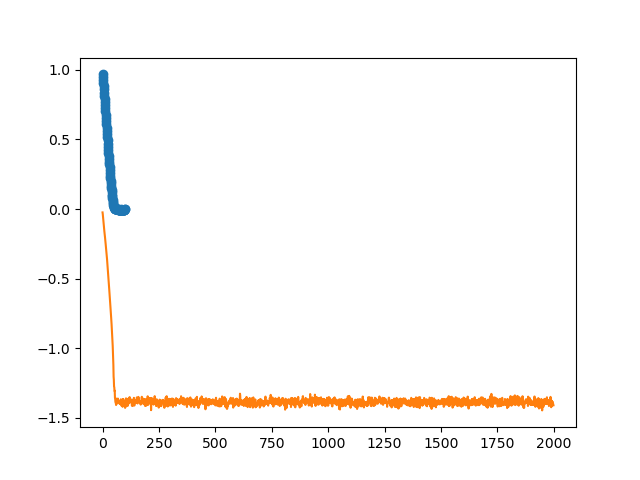
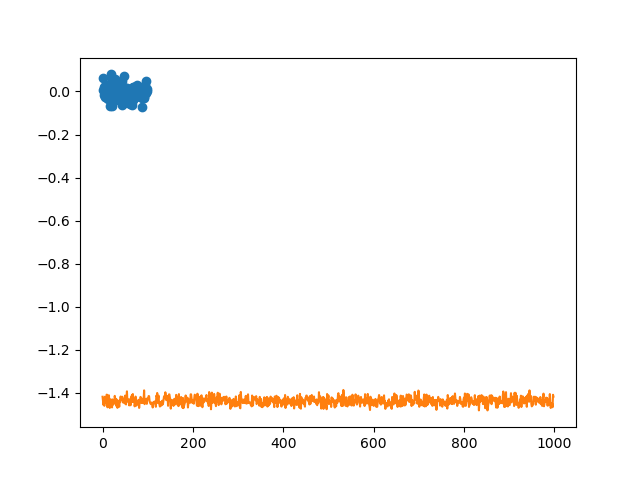
wolff setup

diff --git a/plotting/korrelation.py b/plotting/korrelation.py
@@ -34,10 +34,10 @@ import matplotlib.colors as mcolors
 #data = [0.60445, 0.59915, 0.61015, 0.59555, 0.59325, 0.59705, 0.6123, 0.6094, 0.6237, 0.6306, 0.61995, 0.62035, 0.6347, 0.63575, 0.6133, 0.6161, 0.6238, 0.6247, 0.6308, 0.6339, 0.619, 0.6141, 0.6243, 0.62585, 0.624, 0.6276, 0.61005, 0.6076, 0.60915, 0.60095, 0.59865, 0.60225, 0.60385, 0.60495, 0.60985, 0.6059, 0.60695, 0.6161, 0.6283, 0.6238, 0.62505, 0.64435, 0.6565, 0.64025, 0.6416, 0.64665, 0.63675, 0.64115, 0.6349, 0.6387, 0.63825, 0.63025, 0.6414, 0.632, 0.6393, 0.6311, 0.63885, 0.64105, 0.641, 0.6473, 0.64455, 0.65035, 0.64705, 0.6425, 0.65025, 0.64595, 0.6292, 0.6224, 0.6313, 0.64475, 0.63885, 0.64005, 0.63045, 0.6266, 0.6267, 0.63385, 0.63425, 0.6234, 0.6228, 0.6172, 0.62325, 0.61265, 0.61305, 0.6131, 0.6141, 0.61105, 0.6126, 0.6154, 0.625, 0.63375, 0.64235, 0.63015, 0.62385, 0.63795, 0.64615, 0.63565, 0.63255, 0.63775, 0.6332, 0.6246, 0.61805, 0.63, 0.6272, 0.63185, 0.63995, 0.63455, 0.61875, 0.62735, 0.6307, 0.62485, 0.61885, 0.6183, 0.61695, 0.61575, 0.6105, 0.60845, 0.61085, 0.6228, 0.60985, 0.61265, 0.5963, 0.5903, 0.59045, 0.59415, 0.5834, 0.5824, 0.58825, 0.58915, 0.60805, 0.60875, 0.62275, 0.60585, 0.62605, 0.62795, 0.6103, 0.63545, 0.645, 0.63775, 0.64595, 0.64415, 0.64375, 0.6511, 0.64955, 0.6417, 0.6195, 0.6315, 0.62275, 0.63415, 0.62885, 0.6362, 0.6467, 0.6486, 0.65835, 0.65005, 0.65785, 0.66065, 0.65755, 0.66635, 0.65235, 0.6561, 0.64115, 0.6356, 0.6222, 0.63065, 0.6261, 0.62615, 0.6287, 0.6265, 0.63025, 0.6175, 0.6128, 0.60715, 0.6159, 0.62185, 0.62125, 0.61155, 0.60975, 0.60465, 0.59315, 0.59005, 0.58655, 0.5974, 0.6038, 0.6109, 0.60655, 0.6035, 0.6021, 0.62045, 0.619, 0.62625, 0.61275, 0.6129, 0.6075, 0.60815, 0.59645, 0.5875, 0.5868, 0.5753, 0.5884, 0.5882, 0.5645, 0.57625, 0.5702, 0.57135, 0.5703, 0.5803, 0.5856, 0.5793, 0.59035, 0.5885, 0.5894, 0.59285, 0.5829, 0.59985, 0.6031, 0.60305, 0.625, 0.62065, 0.6096, 0.60805, 0.61895, 0.62445, 0.6271, 0.6227, 0.61075, 0.6089, 0.61255, 0.6043, 0.61155, 0.61225, 0.6175, 0.62555, 0.6263, 0.6246, 0.6109, 0.6061, 0.59655, 0.59885, 0.5983, 0.59045, 0.5985, 0.60095, 0.5956, 0.5805, 0.58065, 0.58, 0.58525, 0.58885, 0.5879, 0.57595, 0.58275, 0.59425, 0.5893, 0.58515, 0.58565, 0.58905, 0.5899, 0.5941, 0.5943, 0.5731, 0.57135, 0.5664, 0.56885, 0.5718, 0.5726, 0.59395, 0.5844, 0.5944, 0.59985, 0.61305, 0.5968, 0.5969, 0.60005, 0.58745, 0.5816, 0.5846, 0.5888, 0.58635, 0.6016, 0.5946, 0.58205, 0.58095, 0.5818, 0.5726, 0.57195, 0.5605, 0.55575, 0.56215, 0.574, 0.5646, 0.55805, 0.5703, 0.5624, 0.55405, 0.56535, 0.5566, 0.5558, 0.56025, 0.5644, 0.5624, 0.5543, 0.5432, 0.5378, 0.51855, 0.5226, 0.53175, 0.5054, 0.5152, 0.5075, 0.51415, 0.5292, 0.52475, 0.5391, 0.53965, 0.5358, 0.54275, 0.55705, 0.5451, 0.54105, 0.54555, 0.53955, 0.55245, 0.5559, 0.55495, 0.5368, 0.5384, 0.55395, 0.55525, 0.56575, 0.5535, 0.56175, 0.5607, 0.57515, 0.56055, 0.55705, 0.5526, 0.5518, 0.5501, 0.5454, 0.5384, 0.5445, 0.549, 0.5418, 0.53825, 0.5582, 0.5455, 0.55, 0.5495, 0.54955, 0.53475, 0.51695, 0.5218, 0.5205, 0.5328, 0.5236, 0.51665, 0.49955, 0.4914, 0.4982, 0.51055, 0.51895, 0.5116, 0.51115, 0.515, 0.52945, 0.52435, 0.534, 0.5405, 0.5392, 0.5415, 0.53035, 0.5314, 0.5246, 0.53235, 0.538, 0.52995, 0.5388, 0.5423, 0.53565, 0.52865, 0.5324, 0.5357, 0.5249, 0.5232, 0.5253, 0.5256, 0.53575, 0.5398, 0.5321, 0.5271, 0.5265, 0.52695, 0.52845, 0.52875, 0.5155, 0.50135, 0.4907, 0.5145, 0.5126, 0.5077, 0.52005, 0.52865, 0.5446, 0.53395, 0.5322, 0.52405, 0.5499, 0.55275, 0.5551, 0.55335, 0.54805, 0.54405, 0.54195, 0.5416, 0.54475, 0.54505, 0.5508, 0.5414, 0.53595, 0.54015, 0.5405, 0.5391, 0.5559, 0.5508, 0.5556, 0.55565, 0.5641, 0.5759, 0.574, 0.576, 0.58695, 0.59125, 0.5955, 0.5987, 0.6006, 0.6043, 0.597, 0.59395, 0.5874, 0.58865, 0.5889, 0.58205, 0.58675, 0.57465, 0.55825, 0.56015, 0.5676, 0.5581, 0.56055, 0.5657, 0.5719, 0.565, 0.55955, 0.5769, 0.5814, 0.5826, 0.57735, 0.57145, 0.5688, 0.57115, 0.55095, 0.5536, 0.55515, 0.55475, 0.55735, 0.57205, 0.5638, 0.5652, 0.5569, 0.5587, 0.55015, 0.5475, 0.5207, 0.52155, 0.5213, 0.52735, 0.52145, 0.5215, 0.52455, 0.53165, 0.51945, 0.5276, 0.5112, 0.5121, 0.52405, 0.52935, 0.52945, 0.5112, 0.50665, 0.50355, 0.49995, 0.505, 0.51375, 0.51095, 0.5065, 0.49845, 0.4942, 0.4926, 0.481, 0.49275, 0.47805, 0.4862, 0.47865, 0.47895, 0.46845, 0.4678, 0.4607, 0.47635, 0.4664, 0.4704, 0.46395, 0.4627, 0.4631, 0.4663, 0.4592, 0.45, 0.4664, 0.46545, 0.45755, 0.44295, 0.45715, 0.46405, 0.4446, 0.4425, 0.45045, 0.44315, 0.44655, 0.4463, 0.45855, 0.4597, 0.46655, 0.4582, 0.4714, 0.46575, 0.46645, 0.4716, 0.4608, 0.469, 0.4697, 0.46835, 0.4554, 0.44985, 0.4516, 0.4626, 0.4587, 0.4639, 0.462, 0.46405, 0.47225, 0.46895, 0.4801, 0.49505, 0.4837, 0.47835, 0.4849, 0.4789, 0.47875, 0.47085, 0.46835, 0.4568, 0.4589, 0.4544, 0.44705, 0.45685, 0.4565, 0.453, 0.4551, 0.4479, 0.4393, 0.4284, 0.4413, 0.4331, 0.42485, 0.40635, 0.40035, 0.3877, 0.37885, 0.3655, 0.35965, 0.34235, 0.34075, 0.3538, 0.35875, 0.37115, 0.39295, 0.3677, 0.36115, 0.36555, 0.3676, 0.36635, 0.36795, 0.3817, 0.3835, 0.3708, 0.37165, 0.36495, 0.37275, 0.37975, 0.3797, 0.37415, 0.35685, 0.3574, 0.37515, 0.377, 0.3724, 0.37405, 0.3816, 0.36935, 0.3689, 0.36375, 0.372, 0.37185, 0.3713, 0.3764, 0.3732, 0.3735, 0.3719, 0.38015, 0.37965, 0.38725, 0.37645, 0.381, 0.37395, 0.367, 0.3766, 0.3593, 0.3517, 0.35075, 0.3523, 0.3598, 0.35405, 0.35775, 0.35045, 0.35335, 0.3622, 0.3651, 0.36335, 0.34075, 0.33775, 0.3244, 0.31945, 0.3174, 0.3192, 0.32195, 0.31, 0.30115, 0.29045, 0.295, 0.3048, 0.2955, 0.29925, 0.30205, 0.30505, 0.3026, 0.3058, 0.30195, 0.3065, 0.2991, 0.31535, 0.32715, 0.3274, 0.3142, 0.3197, 0.3223, 0.3018, 0.30405, 0.31185, 0.30895, 0.31685, 0.31725, 0.32455, 0.3143, 0.3172, 0.3218, 0.31185, 0.3081, 0.30145, 0.3035, 0.306, 0.29525, 0.2923, 0.30525, 0.3026, 0.3045, 0.29255, 0.2921, 0.2934, 0.28615, 0.2819, 0.27405, 0.27655, 0.26625, 0.26505, 0.26295, 0.2753, 0.2837, 0.2745, 0.27345, 0.26755, 0.27415, 0.27615, 0.27455, 0.29575, 0.30505, 0.3234, 0.3441, 0.34, 0.31985, 0.3228, 0.31525, 0.3195, 0.32855, 0.313, 0.3206, 0.32255, 0.3386, 0.334, 0.3354, 0.32575, 0.3289, 0.31565, 0.32595, 0.32855, 0.33195, 0.3304, 0.32085, 0.32665, 0.32035, 0.32495, 0.3225, 0.31535, 0.30095, 0.30495, 0.3077, 0.3245, 0.31705, 0.32505, 0.31665, 0.2999, 0.305, 0.3216, 0.31725, 0.32945, 0.3402, 0.34125, 0.34575, 0.35065, 0.34515, 0.34815, 0.33605, 0.3394, 0.3559, 0.3587, 0.36345, 0.3557, 0.3523, 0.34765, 0.33985, 0.3487, 0.35305, 0.35645, 0.34905, 0.3395, 0.3521, 0.361, 0.37325, 0.36105, 0.3638, 0.3613, 0.36765, 0.3684, 0.3705, 0.372, 0.3705, 0.37735, 0.3745, 0.3889, 0.3875, 0.3955, 0.39795, 0.3915, 0.40515, 0.3937, 0.39165, 0.4073, 0.40475, 0.4038, 0.41495, 0.4021, 0.41905, 0.4278, 0.4139, 0.41495, 0.4081, 0.3966, 0.4213, 0.4204, 0.41465, 0.4089, 0.42135, 0.40645, 0.4019, 0.41255, 0.4187, 0.4346, 0.42975, 0.43325, 0.41815, 0.4181, 0.4134, 0.4103, 0.42865, 0.4396, 0.4428, 0.43375, 0.43675, 0.4281, 0.4311, 0.43965, 0.4396, 0.44315, 0.44815, 0.4502, 0.4476, 0.4431, 0.44635, 0.43155, 0.4333, 0.44355, 0.43505, 0.424, 0.4336, 0.4367, 0.43335, 0.43915, 0.4365, 0.45065, 0.4509, 0.4625, 0.4758, 0.46845, 0.4837, 0.48335, 0.48855, 0.47845, 0.47065, 0.47045, 0.4729, 0.46065, 0.46675, 0.4645, 0.45255, 0.4676, 0.46765, 0.4603, 0.45675, 0.45695, 0.4666, 0.4706, 0.47895, 0.48515, 0.4874, 0.49135, 0.4905, 0.4792, 0.45765, 0.448, 0.4525, 0.4582, 0.4639, 0.4687, 0.45875, 0.45375, 0.4556, 0.44735, 0.46165, 0.46785, 0.46985, 0.4721, 0.4842, 0.49975, 0.49155, 0.50145, 0.5018, 0.50505, 0.5048, 0.5115, 0.5113, 0.51305, 0.52145, 0.5152, 0.5156, 0.51395, 0.5089, 0.50375, 0.50115, 0.4896, 0.50135, 0.4884, 0.4865, 0.49005, 0.4883, 0.4751, 0.45905, 0.45015, 0.4529, 0.45845, 0.46055, 0.46255, 0.4657, 0.4438, 0.4562, 0.45475, 0.4685, 0.462, 0.46345, 0.46745, 0.47115, 0.4702, 0.46505, 0.4685, 0.48385, 0.49075, 0.4799, 0.46725, 0.4739, 0.47245, 0.4658, 0.44705, 0.4594, 0.4421, 0.4428, 0.4499, 0.4496, 0.44625, 0.45, 0.44425, 0.43385, 0.43995, 0.4481, 0.45335, 0.4584, 0.45575, 0.4571, 0.44835, 0.44775, 0.4535, 0.45125, 0.44535, 0.44165, 0.43215, 0.42375, 0.4223, 0.4226, 0.4117, 0.4, 0.38735, 0.38125, 0.38895, 0.38545, 0.3791, 0.38775, 0.38545, 0.39565, 0.40155, 0.4081, 0.4166, 0.4265, 0.4288, 0.41845, 0.41695, 0.4125, 0.42035, 0.4039, 0.41315, 0.4005, 0.41385, 0.41425, 0.4169, 0.4095, 0.3927, 0.3925, 0.3773, 0.37655, 0.3752, 0.3804, 0.3697, 0.37285, 0.3644, 0.36465, 0.3683, 0.36685, 0.3545, 0.3749, 0.38125, 0.39505, 0.39435, 0.4017, 0.41905, ]
 
 
-data = [-0.0243, -0.0362, -0.0548, -0.0748, -0.0947, -0.1132, -0.1288, -0.1413, -0.1591, -0.1725, -0.184, -0.2045, -0.2243, -0.237, -0.2551, -0.2722, -0.2901, -0.3052, -0.3282, -0.3488, -0.3621, -0.3855, -0.4078, -0.4305, -0.4489, -0.479, -0.4981, -0.5235, -0.5469, -0.5626, -0.5856, -0.6079, -0.6345, -0.658, -0.6776, -0.7039, -0.7317, -0.756, -0.7767, -0.7985, -0.8271, -0.8555, -0.8931, -0.9171, -0.9437, -0.9828, -1.026, -1.0596, -1.121, -1.2044, -1.2264, -1.2758, -1.2805, -1.3069, -1.3052, -1.3562, -1.3644, -1.3864, -1.3913, -1.3959, -1.4081, -1.3622, -1.3772, -1.3986, -1.396, -1.3946, -1.3724, -1.3873, -1.3619, -1.3872, -1.3811, -1.3816, -1.3782, -1.3888, -1.388, -1.3932, -1.401, -1.3957, -1.3759, -1.3969, -1.3909, -1.3669, -1.3718, -1.3732, -1.4132, -1.3888, -1.3769, -1.3714, -1.3952, -1.4212, -1.3653, -1.3997, -1.3651, -1.4023, -1.4012, -1.4091, -1.3845, -1.4164, -1.3877, -1.4138, -1.4288, -1.3837, -1.4146, -1.4193, -1.3601, -1.3852, -1.3958, -1.3681, -1.4123, -1.385, -1.4068, -1.4002, -1.4132, -1.3842, -1.3626, -1.3936, -1.3964, -1.397, -1.3721, -1.3578, -1.3513, -1.3732, -1.3895, -1.3797, -1.3787, -1.3665, -1.3776, -1.3835, -1.3783, -1.3807, -1.4135, -1.4099, -1.3976, -1.3797, -1.4148, -1.3703, -1.3918, -1.3768, -1.3804, -1.3567, -1.3993, -1.4119, -1.3947, -1.3939, -1.3721, -1.3888, -1.3793, -1.3916, -1.3894, -1.3751, -1.3763, -1.3703, -1.3535, -1.3685, -1.3926, -1.3974, -1.3714, -1.3601, -1.375, -1.35, -1.382, -1.3695, -1.3872, -1.3779, -1.3923, -1.383, -1.3926, -1.3809, -1.4, -1.4056, -1.3938, -1.3916, -1.3906, -1.3735, -1.3491, -1.3922, -1.368, -1.3869, -1.3771, -1.3612, -1.386, -1.4009, -1.3977, -1.3656, -1.3966, -1.3672, -1.3742, -1.3966, -1.4131, -1.3851, -1.412, -1.3664, -1.3829, -1.4131, -1.3935, -1.3698, -1.38, -1.3962, -1.4087, -1.3864, -1.3455, -1.375, -1.4063, -1.4005, -1.3978, -1.3578, -1.3904, -1.3742, -1.3946, -1.3881, -1.3904, -1.3579, -1.3971, -1.3983, -1.3641, -1.4452, -1.384, -1.3846, -1.3576, -1.3888, -1.3881, -1.3879, -1.3936, -1.3709, -1.369, -1.3927, -1.4053, -1.3852, -1.4003, -1.3793, -1.3854, -1.3445, -1.3729, -1.3604, -1.3688, -1.3765, -1.3758, -1.4132, -1.3733, -1.4145, -1.3769, -1.3682, -1.4085, -1.3885, -1.3815, -1.3896, -1.3996, -1.3916, -1.3889, -1.4267, -1.3908, -1.4147, -1.3724, -1.3695, -1.3799, -1.3728, -1.3927, -1.3885, -1.4134, -1.4086, -1.4162, -1.3779, -1.3858, -1.3853, -1.3912, -1.3733, -1.3714, -1.3938, -1.3719, -1.3962, -1.4007, -1.401, -1.417, -1.4061, -1.4282, -1.3847, -1.3793, -1.4044, -1.4091, -1.3786, -1.354, -1.4145, -1.3887, -1.3797, -1.3448, -1.3773, -1.3571, -1.3893, -1.3875, -1.4187, -1.4122, -1.3672, -1.3896, -1.4062, -1.4129, -1.3637, -1.365, -1.3807, -1.3654, -1.4036, -1.3657, -1.365, -1.4111, -1.3908, -1.3978, -1.3973, -1.3968, -1.3832, -1.3611, -1.3781, -1.4021, -1.3817, -1.4216, -1.3872, -1.3641, -1.3833, -1.4082, -1.3836, -1.3815, -1.3897, -1.3921, -1.3786, -1.3805, -1.3947, -1.4127, -1.3888, -1.3586, -1.3787, -1.3724, -1.3654, -1.3944, -1.3893, -1.3748, -1.3909, -1.368, -1.3885, -1.3789, -1.3741, -1.393, -1.3736, -1.3907, -1.4009, -1.3902, -1.3877, -1.3627, -1.3878, -1.3768, -1.373, -1.3451, -1.3747, -1.356, -1.3897, -1.3819, -1.3756, -1.3737, -1.4006, -1.4004, -1.373, -1.3857, -1.3565, -1.4045, -1.4007, -1.3933, -1.3645, -1.3987, -1.4051, -1.3721, -1.3817, -1.3843, -1.4, -1.3797, -1.401, -1.364, -1.3642, -1.4223, -1.3604, -1.3832, -1.3984, -1.3747, -1.3615, -1.3797, -1.3882, -1.3657, -1.38, -1.3751, -1.4053, -1.3981, -1.3671, -1.3741, -1.3537, -1.3858, -1.4063, -1.4198, -1.373, -1.3943, -1.3823, -1.3725, -1.3688, -1.41, -1.3998, -1.3864, -1.3844, -1.3739, -1.4036, -1.3905, -1.3923, -1.4236, -1.3841, -1.3731, -1.3906, -1.3987, -1.403, -1.361, -1.3655, -1.3771, -1.3903, -1.4093, -1.3921, -1.3494, -1.3951, -1.3799, -1.3952, -1.3941, -1.3845, -1.4076, -1.4293, -1.3928, -1.4049, -1.3798, -1.3873, -1.3968, -1.3928, -1.4049, -1.3835, -1.357, -1.3836, -1.3648, -1.3783, -1.368, -1.3463, -1.35, -1.3729, -1.3907, -1.362, -1.3984, -1.3823, -1.3971, -1.3819, -1.3937, -1.3821, -1.367, -1.3811, -1.374, -1.404, -1.3988, -1.3833, -1.4388, -1.3908, -1.3598, -1.4038, -1.4148, -1.3635, -1.3853, -1.3846, -1.3829, -1.3867, -1.3854, -1.3843, -1.3906, -1.3824, -1.411, -1.3662, -1.391, -1.3867, -1.3647, -1.3819, -1.3987, -1.3841, -1.3739, -1.3716, -1.3835, -1.4028, -1.3999, -1.3742, -1.3933, -1.3827, -1.3787, -1.3957, -1.3682, -1.3905, -1.37, -1.3751, -1.4014, -1.3995, -1.3763, -1.3956, -1.3906, -1.3919, -1.3776, -1.3941, -1.4109, -1.3764, -1.361, -1.356, -1.3958, -1.3978, -1.3969, -1.4117, -1.413, -1.3789, -1.3867, -1.3792, -1.4083, -1.3919, -1.4152, -1.3813, -1.3869, -1.4186, -1.3856, -1.3625, -1.3909, -1.3905, -1.3916, -1.4176, -1.3716, -1.4015, -1.4155, -1.373, -1.3766, -1.3933, -1.3466, -1.3705, -1.3775, -1.3549, -1.4012, -1.3907, -1.3982, -1.3779, -1.387, -1.3763, -1.3739, -1.3516, -1.3888, -1.4088, -1.4201, -1.3854, -1.3922, -1.3647, -1.3808, -1.422, -1.4316, -1.4111, -1.4354, -1.4106, -1.3917, -1.4182, -1.4133, -1.4036, -1.3907, -1.4012, -1.3851, -1.3821, -1.3778, -1.3918, -1.3704, -1.3686, -1.3951, -1.3958, -1.356, -1.3714, -1.3938, -1.3988, -1.3759, -1.3914, -1.3825, -1.3754, -1.394, -1.3862, -1.358, -1.4268, -1.3668, -1.3756, -1.3724, -1.3766, -1.3822, -1.4133, -1.4063, -1.3884, -1.3701, -1.3928, -1.3652, -1.3945, -1.3712, -1.3964, -1.362, -1.3793, -1.4057, -1.3907, -1.3681, -1.3691, -1.3997, -1.4136, -1.3954, -1.3825, -1.3861, -1.4131, -1.3912, -1.3816, -1.3827, -1.3269, -1.338, -1.3774, -1.388, -1.3776, -1.3747, -1.4036, -1.4066, -1.378, -1.3886, -1.3765, -1.403, -1.4046, -1.3903, -1.3875, -1.3764, -1.3995, -1.4152, -1.3768, -1.387, -1.3966, -1.3661, -1.3846, -1.3938, -1.3713, -1.4102, -1.3615, -1.4145, -1.4082, -1.3501, -1.405, -1.3909, -1.389, -1.4088, -1.4233, -1.3915, -1.3964, -1.4089, -1.383, -1.3679, -1.3823, -1.3793, -1.3869, -1.3575, -1.3666, -1.4238, -1.3964, -1.4045, -1.3734, -1.3817, -1.387, -1.409, -1.3741, -1.3587, -1.3637, -1.3682, -1.3915, -1.4272, -1.4009, -1.3536, -1.4156, -1.3831, -1.3827, -1.379, -1.4045, -1.3905, -1.412, -1.3808, -1.3682, -1.4245, -1.4003, -1.4147, -1.4207, -1.3915, -1.4157, -1.4101, -1.4091, -1.4082, -1.3958, -1.4057, -1.3837, -1.3849, -1.3737, -1.3883, -1.3817, -1.3795, -1.3884, -1.3714, -1.4263, -1.3772, -1.365, -1.4065, -1.3839, -1.3769, -1.4125, -1.3699, -1.3928, -1.3824, -1.3829, -1.4007, -1.3799, -1.3956, -1.4001, -1.383, -1.3804, -1.4184, -1.3871, -1.4058, -1.404, -1.3898, -1.4087, -1.3801, -1.3584, -1.3477, -1.3904, -1.3959, -1.3801, -1.3971, -1.3905, -1.3823, -1.3981, -1.394, -1.3762, -1.3826, -1.4102, -1.4124, -1.3928, -1.3841, -1.3791, -1.385, -1.3953, -1.3821, -1.3575, -1.3652, -1.3935, -1.3798, -1.3352, -1.358, -1.3814, -1.3661, -1.3653, -1.3819, -1.4023, -1.3852, -1.354, -1.4077, -1.399, -1.3798, -1.4194, -1.392, -1.3894, -1.3855, -1.3877, -1.3902, -1.3958, -1.3896, -1.3797, -1.3593, -1.4028, -1.3717, -1.3804, -1.3665, -1.3775, -1.378, -1.3856, -1.3688, -1.3932, -1.4053, -1.3863, -1.3714, -1.3851, -1.376, -1.3549, -1.3896, -1.3999, -1.3816, -1.4152, -1.3833, -1.379, -1.3714, -1.381, -1.4095, -1.4004, -1.3746, -1.3984, -1.3617, -1.3901, -1.3979, -1.3908, -1.3619, -1.3573, -1.3714, -1.3771, -1.3767, -1.3863, -1.3728, -1.3843, -1.4138, -1.3737, -1.397, -1.4415, -1.3766, -1.363, -1.4204, -1.3895, -1.4044, -1.4302, -1.4199, -1.3703, -1.3833, -1.3939, -1.3713, -1.3778, -1.3789, -1.3716, -1.395, -1.367, -1.367, -1.3816, -1.4008, -1.381, -1.3808, -1.3734, -1.4003, -1.3922, -1.3899, -1.4228, -1.3574, -1.3688, -1.3624, -1.3754, -1.3582, -1.399, -1.3653, -1.3779, -1.4027, -1.3949, -1.3863, -1.4103, -1.3853, -1.4097, -1.3828, -1.3582, -1.3916, -1.3669, -1.4248, -1.3663, -1.3608, -1.3906, -1.3963, -1.3841, -1.3874, -1.3717, -1.4024, -1.379, -1.3869, -1.3798, -1.3892, -1.3499, -1.4037, -1.4026, -1.4096, -1.3931, -1.3957, -1.4045, -1.426, -1.386, -1.4116, -1.4056, -1.3788, -1.3794, -1.3836, -1.4173, -1.3767, -1.3687, -1.3773, -1.3806, -1.3849, -1.3479, -1.3443, -1.3819, -1.3787, -1.3856, -1.3911, -1.3769, -1.3783, -1.3955, -1.3878, -1.3879, -1.3902, -1.4077, -1.3571, -1.3756, -1.367, -1.371, -1.3928, -1.3692, -1.3648, -1.3867, -1.3879, -1.3839, -1.3778, -1.382, -1.3873, -1.39, -1.412, -1.3654, -1.3699, -1.3786, -1.3814, -1.4083, -1.3293, -1.4076, -1.4053, -1.3717, -1.4022, -1.3853, -1.4009, -1.4193, -1.3628, -1.3533, -1.3905, -1.3775, -1.3597, -1.3583, -1.3653, -1.3846, -1.3832, -1.3911, -1.378, -1.3917, -1.3945, -1.3338, -1.3572, -1.4089, -1.4149, -1.4009, -1.3837, -1.385, -1.3631, -1.3507, -1.4038, -1.3933, -1.3733, -1.3719, -1.3792, -1.3697, -1.3585, -1.4061, -1.3735, -1.3766, -1.3886, -1.3878, -1.3571, -1.3727, -1.3604, -1.3696, -1.3803, -1.3803, -1.3529, -1.4002, -1.3961, -1.4017, -1.3721, -1.4007, -1.4124, -1.3672, -1.4008, -1.402, -1.407, -1.3641, -1.3961, -1.3671, -1.3827, -1.382, -1.367, -1.4052, -1.3881, -1.4168, -1.3955, -1.3983, -1.4018, -1.4107, -1.4063, -1.382, -1.3948, -1.3558, -1.3791, -1.3914, -1.3863, -1.4137, -1.4069, -1.4082, -1.3657, -1.3508, -1.3681, -1.3933, -1.3781, -1.3592, -1.3585, -1.3728, -1.3796, -1.3773, -1.3825, -1.3947, -1.3934, -1.3808, -1.4093, -1.3702, -1.4184, -1.3833, -1.3812, -1.3879, -1.3797, -1.3622, -1.3822, -1.3836, -1.3767, -1.3708, -1.3532, -1.3979, -1.382, -1.3788, -1.3736, -1.386, -1.3952, -1.3691, -1.3704, -1.4079, -1.4089, -1.384, -1.3917, -1.3929, -1.379, -1.3938, -1.3755, -1.381, -1.3725, -1.3862, -1.4365, -1.367, -1.405, -1.423, -1.4405, -1.3738, -1.3957, -1.3695, -1.3887, -1.406, -1.4069, -1.3664, -1.393, -1.4176, -1.3959, -1.382, -1.3805, -1.3895, -1.3749, -1.3731, -1.4149, -1.3875, -1.3749, -1.372, -1.3921, -1.3814, -1.3686, -1.3911, -1.3941, -1.4152, -1.3829, -1.3741, -1.375, -1.3912, -1.3636, -1.3726, -1.3966, -1.3799, -1.4005, -1.3452, -1.3967, -1.3593, -1.3681, -1.3688, -1.3693, -1.3428, -1.4083, -1.3535, -1.4002, -1.3798, -1.371, -1.428, -1.399, -1.3807, -1.398, -1.3856, -1.3619, -1.3853, -1.3707, -1.4037, -1.3916, -1.3894, -1.3884, -1.3996, -1.4117, -1.4094, -1.4001, -1.4064, -1.3866, -1.4001, -1.408, -1.4058, -1.37, -1.4233, -1.3984, -1.3923, -1.3826, -1.4112, -1.3932, -1.4066, -1.4364, -1.3841, -1.3674, -1.3878, -1.3853, -1.3703, -1.4186, -1.3952, -1.3901, -1.388, -1.3673, -1.3722, -1.3808, -1.3727, -1.3871, -1.367, -1.3755, -1.3908, -1.4182, -1.3997, -1.3842, -1.414, -1.3767, -1.3964, -1.3941, -1.3474, -1.3826, -1.3787, -1.3717, -1.3866, -1.4255, -1.3929, -1.3877, -1.4036, -1.3946, -1.3922, -1.3879, -1.4068, -1.3968, -1.4049, -1.3873, -1.391, -1.415, -1.4003, -1.4135, -1.3837, -1.3808, -1.4126, -1.394, -1.3651, -1.3519, -1.3856, -1.3768, -1.3895, -1.385, -1.3659, -1.3528, -1.38, -1.3913, -1.3772, -1.4106, -1.3904, -1.378, -1.4162, -1.3692, -1.3548, -1.4064, -1.4002, -1.3888, -1.4086, -1.3918, -1.3804, -1.4129, -1.3766, -1.375, -1.4111, -1.4137, -1.3817, -1.368, -1.356, -1.4085, -1.402, -1.3769, -1.3607, -1.3871, -1.3845, -1.3777, -1.3883, -1.3814, -1.3839, -1.3956, -1.3996, -1.3871, -1.3689, -1.3806, -1.3775, -1.3782, -1.3711, -1.3778, -1.3465, -1.3683, -1.3736, -1.3833, -1.3907, -1.3862, -1.3846, -1.3972, -1.3993, -1.3947, -1.3861, -1.3905, -1.385, -1.356, -1.3785, -1.365, -1.4071, -1.4001, -1.3576, -1.3734, -1.37, -1.3938, -1.3859, -1.3596, -1.3903, -1.3826, -1.3946, -1.3927, -1.3664, -1.3718, -1.3909, -1.3904, -1.3845, -1.395, -1.4211, -1.3936, -1.397, -1.3875, -1.396, -1.3825, -1.3765, -1.3594, -1.3548, -1.3641, -1.3673, -1.3888, -1.3901, -1.3833, -1.3839, -1.4152, -1.3977, -1.3841, -1.405, -1.3751, -1.4253, -1.4024, -1.3733, -1.4034, -1.3815, -1.3802, -1.3733, -1.3804, -1.3937, -1.4051, -1.4006, -1.3621, -1.3929, -1.3767, -1.4212, -1.3756, -1.4018, -1.3733, -1.3935, -1.3889, -1.4232, -1.362, -1.3569, -1.3725, -1.3934, -1.3716, -1.3883, -1.4104, -1.3822, -1.4085, -1.4338, -1.3891, -1.3672, -1.3808, -1.4246, -1.3902, -1.3881, -1.4015, -1.3668, -1.3612, -1.3738, -1.3664, -1.3895, -1.4169, -1.3812, -1.3764, -1.3954, -1.3699, -1.3928, -1.3834, -1.3839, -1.3843, -1.396, -1.3597, -1.3951, -1.3876, -1.3898, -1.3788, -1.3673, -1.3986, -1.3619, -1.3855, -1.375, -1.3852, -1.3945, -1.4053, -1.3863, -1.3768, -1.4026, -1.3931, -1.3978, -1.4101, -1.3911, -1.4093, -1.3842, -1.3974, -1.3736, -1.3999, -1.3971, -1.4149, -1.4161, -1.3903, -1.3883, -1.4166, -1.4162, -1.3817, -1.3619, -1.3565, -1.372, -1.3851, -1.3684, -1.3681, -1.3892, -1.3849, -1.3868, -1.4063, -1.3664, -1.3831, -1.4226, -1.3851, -1.3668, -1.3754, -1.379, -1.3848, -1.4017, -1.4111, -1.3616, -1.3907, -1.3532, -1.42, -1.4022, -1.4228, -1.3849, -1.3713, -1.4238, -1.4198, -1.4098, -1.4193, -1.3552, -1.383, -1.3659, -1.3548, -1.4012, -1.3905, -1.4304, -1.3523, -1.3522, -1.3833, -1.3887, -1.3847, -1.3955, -1.3749, -1.3866, -1.3781, -1.3769, -1.373, -1.4132, -1.3958, -1.4074, -1.3736, -1.3847, -1.3976, -1.3835, -1.3915, -1.3571, -1.3728, -1.3817, -1.3765, -1.3874, -1.4008, -1.3997, -1.3884, -1.4118, -1.3824, -1.3669, -1.4036, -1.3813, -1.4172, -1.3813, -1.3709, -1.4023, -1.3977, -1.3852, -1.3944, -1.4, -1.384, -1.3794, -1.3816, -1.3551, -1.3577, -1.361, -1.4078, -1.4198, -1.3991, -1.375, -1.421, -1.3972, -1.4359, -1.3561, -1.385, -1.3912, -1.3915, -1.4167, -1.3759, -1.4165, -1.4072, -1.4167, -1.4018, -1.3607, -1.402, -1.3891, -1.4066, -1.4037, -1.4144, -1.3758, -1.3858, -1.4245, -1.3758, -1.4049, -1.3818, -1.4065, -1.3877, -1.3918, -1.3806, -1.4038, -1.3969, -1.3903, -1.3716, -1.3823, -1.3959, -1.3781, -1.3801, -1.4032, -1.3847, -1.3841, -1.4025, -1.3877, -1.3843, -1.376, -1.3757, -1.3917, -1.3897, -1.3996, -1.3644, -1.3902, -1.3904, -1.3963, -1.3727, -1.372, -1.3768, -1.3647, -1.4213, -1.3957, -1.381, -1.4113, -1.365, -1.3743, -1.3853, -1.374, -1.3977, -1.3837, -1.382, -1.3755, -1.3821, -1.3631, -1.3874, -1.4067, -1.3671, -1.3694, -1.3593, -1.3777, -1.386, -1.3516, -1.3446, -1.4161, -1.3746, -1.3754, -1.414, -1.3769, -1.408, -1.3622, -1.3522, -1.369, -1.3592, -1.3914, -1.4008, -1.3489, -1.3867, -1.3716, -1.3907, -1.4268, -1.42, -1.3589, -1.392, -1.4033, -1.3984, -1.4116, -1.3936, -1.4002, -1.3834, -1.3822, -1.3678, -1.404, -1.3789, -1.3518, -1.3689, -1.388, -1.3938, -1.4066, -1.3609, -1.363, -1.4157, -1.402, -1.3613, -1.3935, -1.3992, -1.3704, -1.4117, -1.3846, -1.3625, -1.4017, -1.411, -1.3853, -1.3836, -1.4101, -1.3777, -1.381, -1.3953, -1.4139, -1.4206, -1.3687, -1.3741, -1.3667, -1.3794, -1.3732, -1.3725, -1.4144, -1.3727, -1.3982, -1.3544, -1.3933, -1.4065, -1.3993, -1.3924, -1.3901, -1.3631, -1.3627, -1.3785, -1.3885, -1.4107, -1.4018, -1.3913, -1.3656, -1.4031, -1.3812, -1.3749, -1.386, -1.3478, -1.3823, -1.401, -1.4046, -1.4336, -1.3881, -1.4059, -1.3732, -1.3974, -1.3959, -1.3822, -1.3906, -1.3822, -1.376, -1.4103, -1.3858, -1.4032, -1.3956, -1.3839, -1.3656, -1.4072, -1.3748, -1.364, -1.4032, -1.4041, -1.4034, -1.3948, -1.383, -1.3717, -1.4045, -1.3771, -1.3521, -1.3756, -1.3734, -1.3824, -1.3775, -1.4127, -1.3887, -1.4024, -1.3868, -1.3725, -1.3954, -1.3908, -1.3715, -1.3733, -1.3906, -1.4093, -1.3743, -1.3801, -1.3787, -1.3633, -1.3882, -1.4089, -1.3783, -1.3849, -1.3823, -1.3801, -1.3594, -1.3794, -1.3815, -1.3529, -1.3952, -1.3782, -1.3963, -1.3858, -1.372, -1.3543, -1.379, -1.3802, -1.4071, -1.3646, -1.4006, -1.3776, -1.4023, -1.38, -1.3827, -1.4076, -1.3636, -1.3735, -1.4002, -1.3895, -1.4181, -1.3945, -1.3932, -1.4169, -1.3876, -1.3931, -1.3754, -1.4278, -1.3977, -1.407, -1.3692, -1.3755, -1.401, -1.3836, -1.3882, -1.3931, -1.4, -1.4052, -1.3467, -1.3774, -1.4032, -1.4194, -1.3937, -1.3782, -1.3282, -1.3828, -1.4047, -1.4178, -1.3844, -1.4225, -1.3913, -1.3588, -1.3893, -1.3541, -1.3715, -1.3998, -1.3925, -1.3721, -1.3855, -1.3537, -1.3799, -1.3847, -1.3985, -1.3727, -1.3739, -1.3591, -1.3618, -1.3903, -1.3771, -1.3642, -1.3787, -1.3898, -1.4193, -1.3817, -1.3938, -1.414, -1.3838, -1.3688, -1.397, -1.3923, -1.4172, -1.4046, -1.3942, -1.3633, -1.3972, -1.3761, -1.4, -1.4031, -1.4154, -1.3729, -1.4071, -1.3701, -1.3565, -1.378, -1.4071, -1.3931, -1.3939, -1.3858, -1.4088, -1.4092, -1.3915, -1.402, -1.3921, -1.3943, -1.3647, -1.3671, -1.3843, -1.4036, -1.4063, -1.4022, -1.4094, -1.3866, -1.3994, -1.4004, -1.4301, -1.3646, -1.4044, -1.3787, -1.405, -1.4223, -1.3966, -1.3774, -1.3982, -1.4035, -1.3673, -1.3897, -1.4073, -1.3983, -1.3593, -1.3441, -1.3699, -1.3941, -1.3889, -1.4131, -1.3893, -1.372, -1.3746, -1.4069, -1.4066, -1.3737, -1.3554, -1.3479, -1.395, -1.3847, -1.4013, -1.3876, -1.3917, -1.3693, -1.3389, -1.4089, -1.4066, -1.3799, -1.3894, -1.3609, -1.3875, -1.4034, -1.3747, -1.3855, -1.3834, -1.343, -1.3512, -1.3687, -1.3478, -1.406, -1.4026, -1.4129, -1.397, -1.3725, -1.3525, -1.4061, -1.4013, -1.3992, -1.381, -1.3689, -1.3767, -1.3884, -1.3777, -1.3699, -1.39, -1.363, -1.4077, -1.3677, -1.3451, -1.3938, -1.3803, -1.3869, -1.4258, -1.383, -1.3892, -1.4286, -1.3908, -1.3958, -1.3996, -1.3889, -1.3874, -1.3752, -1.3733, -1.3677, -1.3939, -1.3689, -1.3751, -1.3857, -1.3812, -1.3831, -1.3718, -1.3736, -1.4153, -1.3481, -1.4001, -1.3569, -1.4035, -1.3937, -1.4014, -1.3569, -1.3655, -1.3665, -1.4036, -1.3708, -1.394, -1.4068, -1.404, -1.4073, -1.377, -1.4079, -1.3925, -1.3992, -1.4004, -1.4036, -1.3922, -1.4084, -1.4082, -1.3859, -1.3941, -1.3953, -1.3655, -1.3469, -1.3704, -1.3839, -1.3758, -1.4211, -1.3905, -1.385, -1.393, -1.3677, -1.3817, -1.3845, -1.3734, -1.3931, -1.4117, -1.3896, -1.4182, -1.3855, -1.3585, -1.4237, -1.3778, -1.433, -1.3683, -1.393, -1.3821, -1.4295, -1.3838, -1.3989, -1.3928, -1.3962, -1.419, -1.3649, -1.3847, -1.3829, -1.3866, -1.4469, -1.4033, -1.3858, -1.3934, -1.3844, -1.4222, -1.3697, -1.4074, -1.3912, -1.3849, -1.397, -1.3643, -1.3645, -1.3668, -1.3964, -1.4003, -1.3768, -1.377, -1.4003, -1.3786, -1.3914, -1.3528, -1.401, -1.3888, -1.3825, -1.3984, -1.392, -1.3728, -1.3879, -1.3774, -1.4155, -1.3986, -1.3853, -1.3998, -1.3799, -1.4037, -1.3646, -1.3497, -1.3604, -1.3596, -1.424, -1.3777, -1.4149, -1.3938, -1.3822, -1.3866, -1.385, -1.3879, -1.4012, -1.4008, -1.4101, 
+data = [-0.0084, -0.0218, -0.0336, -0.0499, -0.0631, -0.077, -0.0876, -0.1043, -0.1174, -0.1323, -0.1473, -0.1647, -0.1802, -0.2011, -0.2173, -0.2361, -0.256, -0.2722, -0.2887, -0.3054, -0.3241, -0.3428, -0.3607, -0.3714, -0.3953, -0.4137, -0.4305, -0.4442, -0.4622, -0.4856, -0.5061, -0.5328, -0.5581, -0.5795, -0.6027, -0.6154, -0.638, -0.6543, -0.6812, -0.699, -0.7132, -0.7338, -0.7624, -0.794, -0.8273, -0.851, -0.904, -0.9453, -0.9726, -1.0042, -1.0622, -1.1098, -1.1886, -1.355, -1.4239, -1.432, -1.4757, -1.4417, -1.4137, -1.4238, -1.4423, -1.4375, -1.4601, -1.4409, -1.4333, -1.4588, -1.4437, -1.456, -1.4378, -1.438, -1.407, -1.4436, -1.4589, -1.438, -1.4172, -1.416, -1.4553, -1.4081, -1.4391, -1.4476, -1.4598, -1.435, -1.4415, -1.4676, -1.4348, -1.4374, -1.4243, -1.4341, -1.4494, -1.431, -1.4557, -1.4559, -1.4535, -1.4429, -1.4513, -1.4261, -1.4188, -1.4425, -1.4265, -1.4237, -1.4276, -1.4777, -1.4555, -1.4565, -1.4646, -1.4626, -1.4265, -1.4521, -1.409, -1.4211, -1.4255, -1.4444, -1.4051, -1.4213, -1.4365, -1.4402, -1.4427, -1.4057, -1.48, -1.4437, -1.4487, -1.4165, -1.4461, -1.4279, -1.4539, -1.4803, -1.4317, -1.462, -1.4501, -1.4345, -1.4322, -1.4392, -1.4275, -1.4474, -1.4429, -1.4417, -1.4377, -1.457, -1.4452, -1.4447, -1.4439, -1.4602, -1.4385, -1.4599, -1.4683, -1.4427, -1.4386, -1.4467, -1.4287, -1.4219, -1.4384, -1.4667, -1.4223, -1.4386, -1.4188, -1.4266, -1.424, -1.4235, -1.4394, -1.4205, -1.4261, -1.4191, -1.4404, -1.4493, -1.451, -1.4418, -1.4153, -1.4524, -1.4673, -1.4588, -1.4256, -1.4634, -1.4485, -1.4208, -1.4422, -1.4253, -1.4133, -1.4198, -1.4163, -1.4628, -1.467, -1.4245, -1.4376, -1.4379, -1.4448, -1.427, -1.4381, -1.4467, -1.4378, -1.4403, -1.4299, -1.4074, -1.45, -1.4427, -1.4218, -1.4115, -1.4525, -1.4173, -1.4203, -1.4508, -1.4373, -1.4151, -1.4171, -1.4146, -1.432, -1.4369, -1.4357, -1.435, -1.4462, -1.4562, -1.4602, -1.4079, -1.4313, -1.4482, -1.4486, -1.4227, -1.4246, -1.4569, -1.4741, -1.4062, -1.4244, -1.4288, -1.4359, -1.4514, -1.4327, -1.452, -1.4255, -1.447, -1.4191, -1.4599, -1.4229, -1.4252, -1.4282, -1.4017, -1.4453, -1.4233, -1.4409, -1.4506, -1.451, -1.4492, -1.3938, -1.4403, -1.4352, -1.4346, -1.4458, -1.4194, -1.4451, -1.437, -1.4332, -1.4323, -1.422, -1.458, -1.4292, -1.4219, -1.4469, -1.4422, -1.4905, -1.4156, -1.4401, -1.4636, -1.4564, -1.4379, -1.4496, -1.4256, -1.4329, -1.4267, -1.4446, -1.4352, -1.439, -1.4361, -1.4422, -1.4282, -1.4491, -1.4265, -1.4374, -1.4555, -1.4489, -1.4479, -1.419, -1.4412, -1.4232, -1.4512, -1.4091, -1.4388, -1.4636, -1.4559, -1.4361, -1.4175, -1.4612, -1.4233, -1.4433, -1.4103, -1.452, -1.4506, -1.4305, -1.4376, -1.4923, -1.4257, -1.4484, -1.4416, -1.4351, -1.449, -1.4052, -1.4594, -1.4393, -1.4448, -1.4429, -1.397, -1.4378, -1.3955, -1.4534, -1.4422, -1.4348, -1.447, -1.4253, -1.4255, -1.4329, -1.4216, -1.407, -1.4703, -1.4592, -1.4345, -1.4468, -1.4252, -1.4527, -1.4483, -1.4103, -1.427, -1.4327, -1.4404, -1.4486, -1.4456, -1.4381, -1.4772, -1.4393, -1.4371, -1.4409, -1.4104, -1.4044, -1.4433, -1.4327, -1.4657, -1.4251, -1.4453, -1.4404, -1.4663, -1.4602, -1.4488, -1.4232, -1.4287, -1.421, -1.4211, -1.472, -1.457, -1.4601, -1.4523, -1.4539, -1.4307, -1.4165, -1.4018, -1.4341, -1.4374, -1.4288, -1.4386, -1.3946, -1.4359, -1.4503, -1.4322, -1.451, -1.4303, -1.4392, -1.4039, -1.4567, -1.423, -1.415, -1.4043, -1.425, -1.4522, -1.4735, -1.449, -1.4073, -1.435, -1.4197, -1.3979, -1.4127, -1.4533, -1.4745, -1.4439, -1.4314, -1.4612, -1.4461, -1.4461, -1.443, -1.4325, -1.4145, -1.4388, -1.3748, -1.4612, -1.4569, -1.442, -1.4373, -1.4148, -1.4483, -1.416, -1.4365, -1.4455, -1.4264, -1.4331, -1.4337, -1.425, -1.4758, -1.4377, -1.4351, -1.4542, -1.4673, -1.4218, -1.4298, -1.4515, -1.4618, -1.4217, -1.4458, -1.4164, -1.4526, -1.4107, -1.4346, -1.439, -1.465, -1.4439, -1.4285, -1.4462, -1.4368, -1.4039, -1.4218, -1.4153, -1.4329, -1.454, -1.4368, -1.4402, -1.4305, -1.4499, -1.4298, -1.4327, -1.4551, -1.4275, -1.4362, -1.4334, -1.4442, -1.4364, -1.4538, -1.4447, -1.4261, -1.4276, -1.4113, -1.4357, -1.4377, -1.4316, -1.4761, -1.4383, -1.4273, -1.4225, -1.4099, -1.447, -1.4458, -1.424, -1.4435, -1.43, -1.4249, -1.4266, -1.4373, -1.4558, -1.4641, -1.4457, -1.4168, -1.4537, -1.4329, -1.4339, -1.4687, -1.4347, -1.4517, -1.4342, -1.4549, -1.4483, -1.4407, -1.4441, -1.4668, -1.4369, -1.4356, -1.4623, -1.4642, -1.4415, -1.4403, -1.4443, -1.4646, -1.4467, -1.4689, -1.4533, -1.439, -1.4337, -1.4237, -1.4672, -1.4171, -1.454, -1.4546, -1.4372, -1.431, -1.4607, -1.4267, -1.4277, -1.4441, -1.4566, -1.4305, -1.4249, -1.4009, -1.4373, -1.4058, -1.4467, -1.4359, -1.4468, -1.4295, -1.4342, -1.4241, -1.4384, -1.4484, -1.4546, -1.425, -1.4295, -1.4538, -1.416, -1.4801, -1.4087, -1.4527, -1.4466, -1.4403, -1.4514, -1.418, -1.4494, -1.4746, -1.4397, -1.443, -1.4236, -1.4708, -1.4455, -1.4312, -1.4543, -1.4281, -1.4456, -1.457, -1.4366, -1.4579, -1.4628, -1.4407, -1.4331, -1.4353, -1.44, -1.4659, -1.4353, -1.4448, -1.425, -1.4595, -1.4727, -1.4537, -1.4461, -1.4714, -1.4462, -1.475, -1.4307, -1.4061, -1.4486, -1.408, -1.4337, -1.4459, -1.4647, -1.4213, -1.4035, -1.4371, -1.452, -1.4509, -1.4575, -1.441, -1.4075, -1.448, -1.4213, -1.4612, -1.3978, -1.4332, -1.4441, -1.4295, -1.4696, -1.4709, -1.459, -1.4575, -1.4166, -1.4293, -1.45, -1.4485, -1.4522, -1.4213, -1.4696, -1.4669, -1.4362, -1.4738, -1.4184, -1.4507, -1.4302, -1.4464, -1.4136, -1.4263, -1.4738, -1.467, -1.4315, -1.4297, -1.4424, -1.4389, -1.4474, -1.4256, -1.44, -1.4376, -1.4279, -1.4404, -1.4554, -1.4103, -1.4716, -1.4165, -1.4543, -1.412, -1.4451, -1.452, -1.471, -1.4413, -1.4732, -1.4152, -1.4428, -1.4282, -1.4319, -1.4537, -1.4841, -1.4291, -1.4299, -1.4468, -1.45, -1.4228, -1.434, -1.4646, -1.447, -1.4205, -1.4385, -1.4437, -1.465, -1.4348, -1.4376, -1.4216, -1.4122, -1.4427, -1.4306, -1.4347, -1.4382, -1.4285, -1.4591, -1.4276, -1.4639, -1.4183, -1.4451, -1.4627, -1.4453, -1.4318, -1.4548, -1.4417, -1.4325, -1.4504, -1.4606, -1.4462, -1.4934, -1.4314, -1.4492, -1.428, -1.4311, -1.4348, -1.4341, -1.4353, -1.4435, -1.4408, -1.4513, -1.4448, -1.451, -1.4616, -1.43, -1.416, -1.4209, -1.4578, -1.4074, -1.4753, -1.4355, -1.4173, -1.445, -1.4197, -1.4116, -1.4787, -1.428, -1.3931, -1.449, -1.4392, -1.4362, -1.4451, -1.4236, -1.4333, -1.4399, -1.4234, -1.4296, -1.4483, -1.4348, -1.4092, -1.4712, -1.4465, -1.4391, -1.4064, -1.4434, -1.4344, -1.4354, -1.4557, -1.4135, -1.4367, -1.436, -1.4245, -1.46, -1.4722, -1.4445, -1.4472, -1.4454, -1.446, -1.4441, -1.4225, -1.4122, -1.4596, -1.4585, -1.4037, -1.45, -1.4249, -1.4241, -1.4553, -1.4184, -1.4063, -1.4664, -1.4402, -1.4591, -1.4198, -1.444, -1.4624, -1.4027, -1.4063, -1.4476, -1.476, -1.4308, -1.4382, -1.4322, -1.4256, -1.4698, -1.4538, -1.4469, -1.4512, -1.4471, -1.4485, -1.4109, -1.4128, -1.4447, -1.4717, -1.4184, -1.4347, -1.3982, -1.4152, -1.4511, -1.4271, -1.4426, -1.4173, -1.4606, -1.4138, -1.442, -1.4354, -1.4459, -1.4418, -1.4105, -1.456, -1.4191, -1.4487, -1.4358, -1.4478, -1.4294, -1.4406, -1.4599, -1.4418, -1.4473, -1.4558, -1.4521, -1.4425, -1.4388, -1.4387, -1.4196, -1.3972, -1.4604, -1.4577, -1.4321, -1.4151, -1.4254, -1.4169, -1.4498, -1.4482, -1.4239, -1.4261, -1.4629, -1.436, -1.476, -1.4166, -1.4529, -1.4255, -1.4579, -1.4333, -1.4603, -1.4665, -1.4639, -1.4804, -1.4496, -1.4559, -1.4229, -1.4634, -1.4449, -1.427, -1.412, -1.4954, -1.4475, -1.4298, -1.4744, -1.4613, -1.4077, -1.4097, -1.4628, -1.4208, -1.4547, -1.4215, -1.4531, -1.4351, -1.4312, -1.4403, -1.4543, -1.4598, -1.4113, -1.4514, -1.4285, -1.4411, -1.4606, -1.4003, -1.4647, -1.4467, -1.4104, -1.45, -1.4813, -1.4601, -1.424, -1.4297, -1.4643, -1.4404, -1.4336, -1.4532, -1.4403, -1.4197, -1.4306, -1.4192, -1.4507, -1.467, -1.4159, -1.4674, -1.4523, -1.4648, -1.4265, -1.4092, -1.4613, -1.4315, -1.4365, -1.4467, -1.4334, -1.4492, -1.4432, -1.4204, -1.4088, -1.4533, -1.4367, -1.4036, -1.435, -1.4469, -1.4192, -1.4238, -1.4117, -1.4565, -1.4316, -1.4471, -1.4705, -1.4494, -1.404, -1.4413, -1.416, -1.4334, -1.4278, -1.4161, -1.4305, -1.421, -1.433, -1.4425, -1.4392, -1.4142, -1.4293, -1.4598, -1.4115, -1.4425, -1.4369, -1.4438, -1.466, -1.443, -1.4221, -1.4536, -1.4436, -1.4435, -1.4528, -1.4495, -1.4598, -1.4246, -1.4419, -1.471, -1.4129, -1.4527, -1.4644, -1.4404, -1.414, -1.4281, -1.4134, -1.4436, -1.4544, -1.4335, -1.4364, -1.4288, -1.4573, -1.4512, -1.4362, -1.4426, -1.3999, -1.4237, -1.4206, -1.4397, -1.4376, -1.4498, -1.402, -1.4304, -1.4554, -1.4402, -1.4266, -1.4313, -1.4464, -1.3954, -1.4228, -1.4426, -1.4371, -1.431, -1.4436, -1.4211, -1.4165, -1.4536, -1.4542, -1.5024, -1.4065, -1.4283, -1.4228, -1.4235, -1.4164, -1.4086, -1.4456, -1.4424, -1.4327, -1.4598, -1.4493, -1.4473, -1.4536, -1.4398, -1.4222, -1.4294, -1.4158, -1.4184, -1.4162, -1.4022, -1.435, -1.4405, -1.4034, -1.4617, -1.4375, -1.4176, -1.4377, -1.4374, -1.4565, -1.4557, -1.4648, -1.4346, -1.4528, -1.4673, -1.4618, -1.4188, -1.439, -1.4569, -1.427, -1.461, -1.4188, -1.4468, -1.4323, -1.4322, -1.4091, -1.4097, -1.468, -1.4242, -1.4382, -1.412, -1.4362, -1.4709, -1.435, -1.431, -1.4618, -1.4382, -1.4683, -1.4313, -1.4561, -1.4503, -1.4513, -1.4486, -1.4148, -1.428, -1.4288, -1.4604, -1.4312, -1.4505, -1.4704, -1.4501, -1.4375, -1.4481, -1.4652, -1.4351, -1.4439, -1.4178, -1.4343, -1.4272, -1.4191, -1.4193, -1.4451, -1.4314, -1.4277, -1.4455, -1.45, -1.4135, -1.4439, -1.4546, -1.425, -1.3937, -1.4408, -1.4387, -1.4404, -1.431, -1.459, -1.4386, -1.4314, -1.4585, -1.421, -1.4288, -1.4106, -1.4426, -1.4062, -1.4426, -1.4334, -1.4291, -1.4635, -1.4531, -1.4181, -1.426, -1.46, -1.4518, -1.4523, -1.4446, -1.4362, -1.433, -1.4708, -1.4437, -1.4354, -1.4195, -1.4228, -1.4479, -1.4397, -1.4408, -1.4477, -1.4272, -1.4289, -1.3892, -1.4532, -1.4454, -1.4391, -1.4441, -1.4277, -1.4518, -1.4354, -1.4271, -1.4264, -1.4155, -1.4162, -1.437, -1.4452, -1.4501, -1.4534, -1.4467, -1.4456, -1.4527, -1.4687, -1.4484, -1.4442, -1.4495, -1.4408, -1.4423, -1.449, -1.4655, -1.4143, -1.417, -1.4013, -1.4477, -1.4236, -1.4136, -1.4466, -1.4563, -1.4644, -1.4536, -1.4436, -1.46, -1.4393, -1.4374, -1.4549, -1.4486, -1.4338, -1.4187, -1.4148, -1.4257, -1.3982, -1.4139, -1.4346, -1.4311, -1.4345, -1.4159, -1.4609, -1.4267, -1.4079, -1.4079, -1.4219, -1.4304, -1.474, -1.4423, -1.4492, -1.434, -1.4422, -1.4532, -1.4616, -1.447, -1.4283, -1.4553, -1.4306, -1.4468, -1.4101, -1.4451, -1.4224, -1.4565, -1.4266, -1.4624, -1.4066, -1.4579, -1.446, -1.453, -1.4233, -1.4202, -1.4288, -1.4336, -1.4694, -1.4245, -1.4718, -1.4656, -1.4551, -1.4491, -1.4351, -1.4129, -1.4413, -1.4264, -1.439, -1.4231, -1.4688, -1.4503, -1.4453, -1.437, -1.4322, -1.4466, -1.4075, -1.4077, -1.4269, -1.434, -1.4483, -1.4366, -1.4341, -1.4512, -1.4263, -1.4093, -1.4133, -1.4205, -1.4284, -1.446, -1.4605, -1.4047, -1.4366, -1.4625, -1.437, -1.42, -1.4298, -1.4608, -1.4173, -1.4205, -1.4122, -1.4376, -1.4675, -1.4263, -1.4406, -1.4448, -1.4277, -1.4399, -1.4305, -1.431, -1.4175, -1.4107, -1.4388, -1.4296, -1.4467, -1.4425, -1.4619, -1.397, -1.4328, -1.4289, -1.4066, -1.4771, -1.4359, -1.3997, -1.4347, -1.4471, -1.4321, -1.4201, -1.4056, -1.4223, -1.4494, -1.4395, -1.4624, -1.4312, -1.4204, -1.4272, -1.4003, -1.4434, -1.4578, -1.4512, -1.4045, -1.4289, -1.4286, -1.4231, -1.454, -1.4315, -1.4304, -1.4231, -1.437, -1.4209, -1.4191, -1.4304, -1.428, -1.4539, -1.4466, -1.4177, -1.4509, -1.4434, -1.4352, -1.4351, -1.4446, -1.4272, -1.4238, -1.4348, -1.475, -1.4335, -1.4549, -1.4649, -1.4508, -1.4617, -1.4409, -1.4288, -1.4474, -1.4519, -1.4641, -1.4455, -1.4175, -1.4326, -1.4626, -1.4517, -1.4481, -1.4436, -1.4583, -1.4409, -1.4113, -1.4695, -1.4725, -1.3965, -1.4298, -1.4299, -1.4398, -1.448, -1.4483, -1.4462, -1.4316, -1.4337, -1.4481, -1.4461, -1.415, -1.4502, -1.4409, -1.4496, -1.4168, -1.4077, -1.4436, -1.4483, -1.4474, -1.4454, -1.4455, -1.4572, -1.4556, -1.4635, -1.4132, -1.427, -1.4596, -1.4288, -1.4195, -1.4228, -1.4275, -1.4317, -1.4353, -1.4161, -1.4531, -1.4487, -1.4305, -1.4418, -1.4421, -1.434, -1.4604, -1.4194, -1.445, -1.4325, -1.4291, -1.4668, -1.4485, -1.4672, -1.4491, -1.4544, -1.4419, -1.4214, -1.4595, -1.4389, -1.4401, -1.4236, -1.4536, -1.4197, -1.4645, -1.4286, -1.4265, -1.4588, -1.4475, -1.4535, -1.4495, -1.4182, -1.4394, -1.4292, -1.4244, -1.4279, -1.4286, -1.4459, -1.4402, -1.4669, -1.4181, -1.418, -1.4463, -1.4301, -1.4142, -1.4189, -1.4667, -1.4585, -1.42, -1.4277, -1.4251, -1.4467, -1.4355, -1.4354, -1.4411, -1.4645, -1.4422, -1.4353, -1.4379, -1.4509, -1.4269, -1.4567, -1.4498, -1.4107, -1.4709, -1.4313, -1.4428, -1.4453, -1.455, -1.4191, -1.4297, -1.4278, -1.4379, -1.4504, -1.4357, -1.4391, -1.4312, -1.4619, -1.4424, -1.4254, -1.4509, -1.4423, -1.4209, -1.4732, -1.4353, -1.4373, -1.4382, -1.4381, -1.457, -1.4283, -1.412, -1.4486, -1.4569, -1.4338, -1.4509, -1.4696, -1.4055, -1.4512, -1.4743, -1.421, -1.4379, -1.4439, -1.4489, -1.4324, -1.4514, -1.4437, -1.4547, -1.4648, -1.4242, -1.4229, -1.4135, -1.4134, -1.4324, -1.4335, -1.4228, -1.4417, -1.4353, -1.4548, -1.4158, -1.4525, -1.4331, -1.439, -1.4108, -1.4224, -1.4346, -1.4357, -1.4411, -1.4177, -1.4354, -1.4435, -1.4411, -1.435, -1.4525, -1.4313, -1.4581, -1.4469, -1.4463, -1.4464, -1.3977, -1.4388, -1.4176, -1.417, -1.4451, -1.4738, -1.443, -1.4257, -1.4513, -1.42, -1.4751, -1.4228, -1.429, -1.4306, -1.4337, -1.4634, -1.4598, -1.4769, -1.4061, -1.443, -1.4262, -1.4129, -1.453, -1.4358, -1.4437, -1.4479, -1.439, -1.4662, -1.4218, -1.4378, -1.4254, -1.4326, -1.4446, -1.4344, -1.4587, -1.4689, -1.4371, -1.4448, -1.4633, -1.4334, -1.4485, -1.4462, -1.4125, -1.4023, -1.4348, -1.4403, -1.4169, -1.4352, -1.4405, -1.4577, -1.4623, -1.4103, -1.4521, -1.4609, -1.3873, -1.4126, -1.4322, -1.4261, -1.4399, -1.4611, -1.421, -1.4409, -1.4424, -1.4639, -1.4465, -1.4405, -1.4204, -1.4363, -1.4562, -1.417, -1.4318, -1.4198, -1.4593, -1.4593, -1.4094, -1.4194, -1.4434, -1.46, -1.4498, -1.4373, -1.4417, -1.4078, -1.4227, -1.4484, -1.4553, -1.4488, -1.4377, -1.4139, -1.4311, -1.4255, -1.442, -1.4646, -1.4325, -1.4198, -1.4457, -1.4456, -1.4459, -1.4316, -1.4421, -1.4468, -1.4312, -1.4619, -1.4069, -1.4391, -1.4372, -1.4281, -1.4507, -1.4306, -1.4058, -1.4224, -1.447, -1.454, -1.4645, -1.4804, -1.4187, -1.4421, -1.4577, -1.4377, -1.4408, -1.4322, -1.4363, -1.4612, -1.4391, -1.4464, -1.4565, -1.4289, -1.4639, -1.4423, -1.4653, -1.4655, -1.4444, -1.4301, -1.4255, -1.4108, -1.4196, -1.449, -1.4476, -1.4556, -1.4502, -1.42, -1.4461, -1.4372, -1.4507, -1.4478, -1.4124, -1.4423, -1.438, -1.4751, -1.4505, -1.4471, -1.4579, -1.4588, -1.4639, -1.4369, -1.45, -1.4307, -1.4553, -1.4597, -1.4541, -1.4447, -1.4703, -1.4751, -1.4198, -1.439, -1.4412, -1.4547, -1.4355, -1.4037, -1.44, -1.4377, -1.449, -1.4106, -1.4153, -1.4426, -1.4661, -1.4366, -1.4445, -1.4441, -1.4468, -1.4352, -1.4641, -1.4136, -1.4634, -1.4469, -1.459, -1.4608, -1.4153, -1.4404, -1.4321, -1.459, -1.4275, -1.4586, -1.4529, -1.4308, -1.4087, -1.41, -1.4185, -1.4141, -1.4387, -1.4076, -1.4432, -1.431, -1.4258, -1.412, -1.4188, -1.462, -1.4336, -1.4353, -1.4571, -1.448, -1.4387, -1.45, -1.396, -1.4321, -1.4285, -1.4209, -1.4286, -1.4134, -1.4514, -1.4226, -1.3899, -1.3945, -1.4655, -1.4507, -1.4549, -1.4318, -1.4553, -1.4582, -1.455, -1.4416, -1.4521, -1.4611, -1.4249, -1.4082, -1.464, -1.42, -1.4549, -1.4628, -1.4088, -1.4222, -1.4573, -1.45, -1.4494, -1.4423, -1.4141, -1.4403, -1.4409, -1.4244, -1.4496, -1.454, -1.4268, -1.4611, -1.42, -1.4445, -1.4335, -1.4588, -1.4394, -1.4415, -1.4334, -1.4414, -1.4797, -1.4522, -1.4334, -1.4332, -1.4194, -1.4386, -1.4335, -1.4355, -1.46, -1.4298, -1.4524, -1.4391, -1.4504, -1.4651, -1.431, -1.4369, -1.4511, -1.4412, -1.4555, -1.4473, -1.4612, -1.4431, -1.4581, -1.4331, -1.4738, -1.4109, -1.4262, -1.4552, -1.4452, -1.4356, -1.4264, -1.4394, -1.4249, -1.4523, -1.4218, -1.4528, -1.4161, -1.4463, -1.4197, -1.4517, -1.4229, -1.4037, -1.4274, -1.4443, -1.4436, -1.4354, -1.4615, -1.4494, -1.4459, -1.4453, -1.4383, -1.4459, -1.4196, -1.4307, -1.4518, -1.4494, -1.4427, -1.4499, -1.4637, -1.4655, -1.4316, -1.4227, -1.46, -1.4038, -1.4318, -1.461, -1.4488, -1.4272, -1.4053, -1.4206, -1.4391, -1.4077, -1.4662, -1.4588, -1.4553, -1.4394, -1.4249, -1.4211, -1.4276, -1.4448, -1.452, -1.4483, -1.4399, -1.4572, -1.4558, -1.4115, -1.4464, -1.4455, -1.4386, -1.4578, -1.4304, -1.4392, -1.425, -1.4154, -1.4822, -1.4465, -1.4135, -1.4427, -1.4292, -1.4384, -1.4114, -1.4322, -1.4248, -1.453, -1.418, -1.4359, -1.4535, -1.4456, -1.4721, -1.4224, -1.4493, -1.4202, -1.4293, -1.4823, -1.4682, -1.4502, -1.4471, -1.4297, -1.4134, -1.4313, -1.4233, -1.4122, -1.4533, -1.4137, -1.4341, -1.4374, -1.4225, -1.4336, -1.4264, -1.4397, -1.4235, -1.4371, -1.4688, -1.4243, -1.4392, -1.4699, -1.459, -1.4279, -1.4428, -1.4526, -1.4179, -1.4449, -1.4468, -1.4378, -1.4389, -1.4404, -1.4494, -1.4109, -1.3945, -1.4205, -1.4659, -1.4357, -1.4654, -1.4083, -1.3975, -1.4597, -1.4617, -1.4448, -1.464, -1.428, -1.4309, -1.4568, -1.4579, -1.4284, -1.4382, -1.4023, -1.4449, -1.4173, -1.4244, -1.4309, -1.4227, -1.437, -1.4622, -1.4005, -1.4368, -1.4005, -1.4256, -1.4568, -1.4145, -1.4424, -1.4518, -1.4488, -1.4703, -1.4467, -1.4624, -1.4313, -1.4547, -1.4139, -1.4665, -1.4349, -1.4394, -1.4169, -1.4283, -1.4329, -1.4501, -1.4243, -1.4462, -1.4446, -1.4192, -1.4325, -1.4656, -1.4133, -1.4163, -1.4061, -1.4184, -1.4422, -1.3893, -1.4237, -1.4195, -1.4149, -1.4516, -1.4635, -1.4607, -1.4585, -1.4534, -1.4189, -1.4222, -1.435, -1.4186, -1.4301, -1.4557, -1.4208, -1.438, -1.4395, -1.4255, -1.4336, -1.445, -1.4395, -1.4451, -1.4453, -1.4201, -1.4536, -1.436, -1.4475, -1.4614, -1.4597, -1.4251, -1.4043, -1.4631, -1.4524, -1.4353, -1.4435, -1.4371, -1.4229, -1.4369, -1.4247, -1.4603, -1.4325, -1.4583, -1.446, -1.4413, -1.4064, -1.4524, -1.471, -1.4578, -1.4633, -1.449, -1.4676, -1.4097, -1.4184, 
 ]
 
-data = data[00:]
+data = data[1000:]
 
 Xs =[]
 Ys = []

diff --git a/simulations/FourierSweep.cpp b/simulations/FourierSweep.cpp
@@ -20,8 +20,8 @@ int main()
 
 
     //på 6 timer har vi 2.16e13 steps
-    std::vector<int> størrelser = {24,26,28,30,32,34,36,38,42,44,46,50,52,56,58,62,66,72,78,84,90}; // Adjust as needed
-    std::vector<double> temperaturer = {1.0, 1.5, 1.75, 2.0, 2.1, 2.11, 2.12, 2.13, 2.14, 2.15, 2.16, 2.17, 2.18, 2.19, 2.20, 2.21, 2.22, 2.23, 2.24, 2.25, 2.26, 2.27, 2.28, 2.29, 2.30, 2.31, 2.32, 2.33, 2.34, 2.35, 2.36, 2.37, 2.38, 2.39, 2.4, 2.5, 2.75, 3, 3.5};
+    std::vector<int> størrelser = {24, 26, 28, 30, 32, 34, 36, 38, 42, 44, 46, 50, 52, 56, 58, 62, 66, 72, 78, 84, 90, 100, 105, 110, 118, 125, 134, 142, 154, 166, 180, 200}; // Adjust as needed
+    std::vector<double> temperaturer = {2.26, 2.261, 2.262, 2.263, 2.264, 2.265, 2.266, 2.267, 2.268, 2.269, 2.27, 2.271, 2.272, 2.273, 2.274, 2.275, 2.276, 2.277, 2.278, 2.279, 2.28}; // Adjust as needed
     //std::vector<int> størrelser = {50, 40, 32}; // Adjust as needed
     
     int totalSimulations = størrelser.size() * temperaturer.size();
@@ -47,12 +47,12 @@ int main()
             params.size = størrelser[i];
             params.temperature = T;
             params.B = 0.0;
-            params.totalStepCount = 1.25e10;     //5e10
-            params.measurementInterval = 1.25e6; //5e6
+            params.totalStepCount = 5e5;     //5e10
+            params.measurementInterval = 50; //5e6
             params.randomize = true;
             params.printProgress = false;
             params.stabilizing = 0.1;
-            params.stepAlgorithm = stepType::Metropolis;
+            params.stepAlgorithm = stepType::Wolff;
             params.wolffStabilizationSteps = 1; //3 // sæt til 0 for ingen Wolff stabilisering
 
             paramsList.push_back(params);
